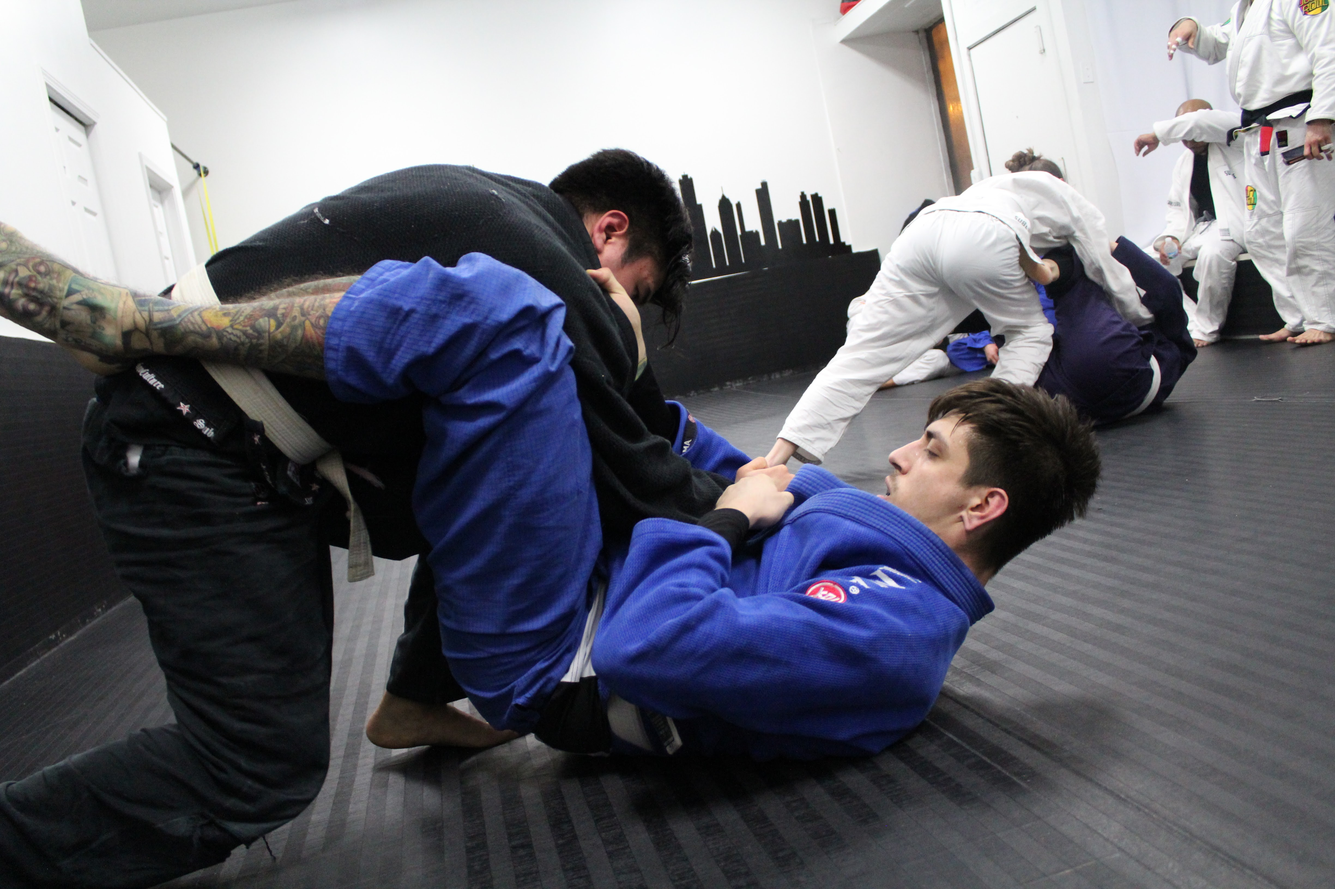
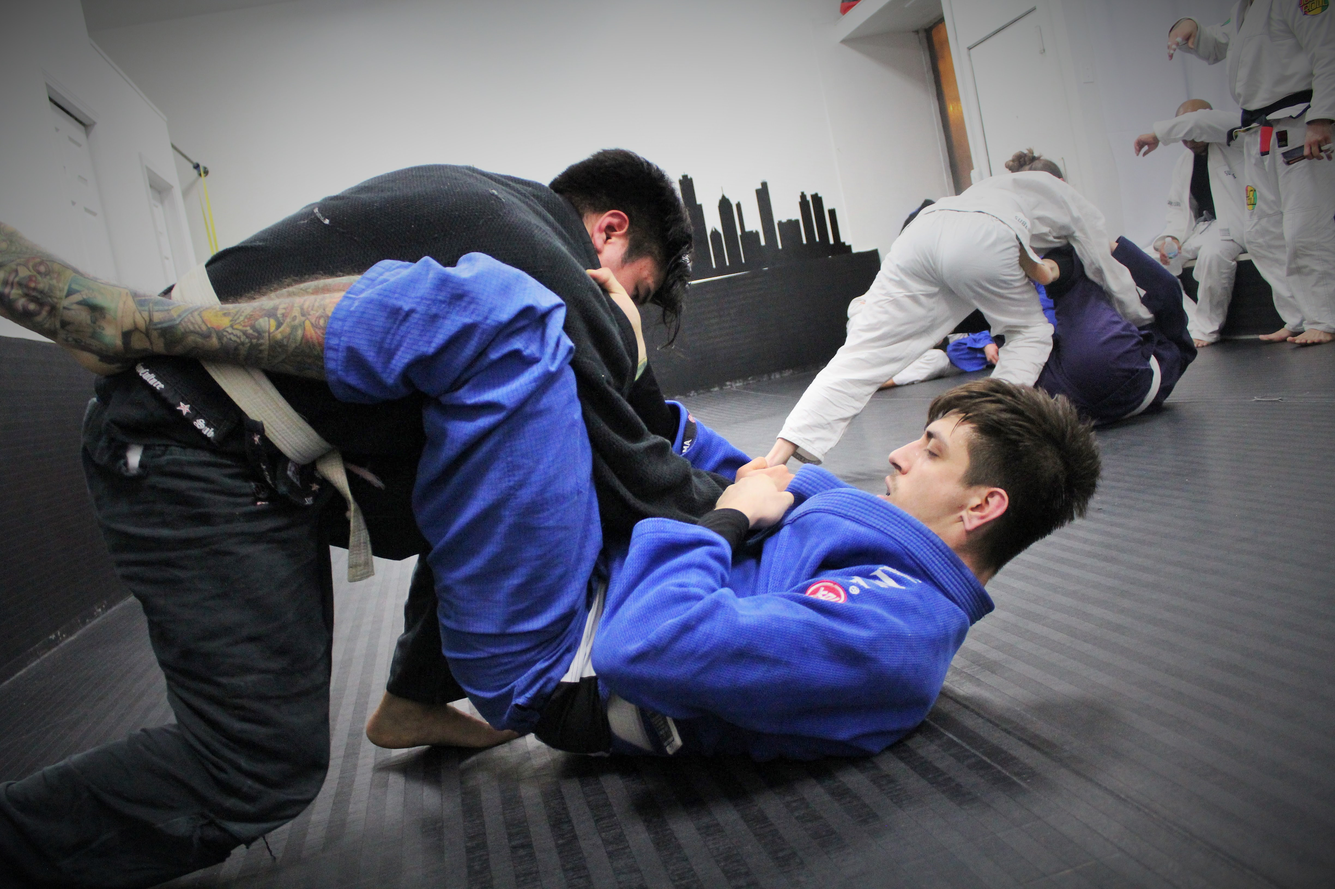
Background image fixed

diff --git a/stylez.css b/stylez.css
@@ -11,7 +11,7 @@ p{font-family: "Arial"; text-align: center; font-size: 20px;  line-height: 1.5em
 .jumbotron {
     margin-top:0%;
     position: inherit;
-    background: #000 url("joey.jpg") center center;
+    background: url("joey.jpg") center center;
     width: 100%;
     height: 90%;
     background-size: cover;
